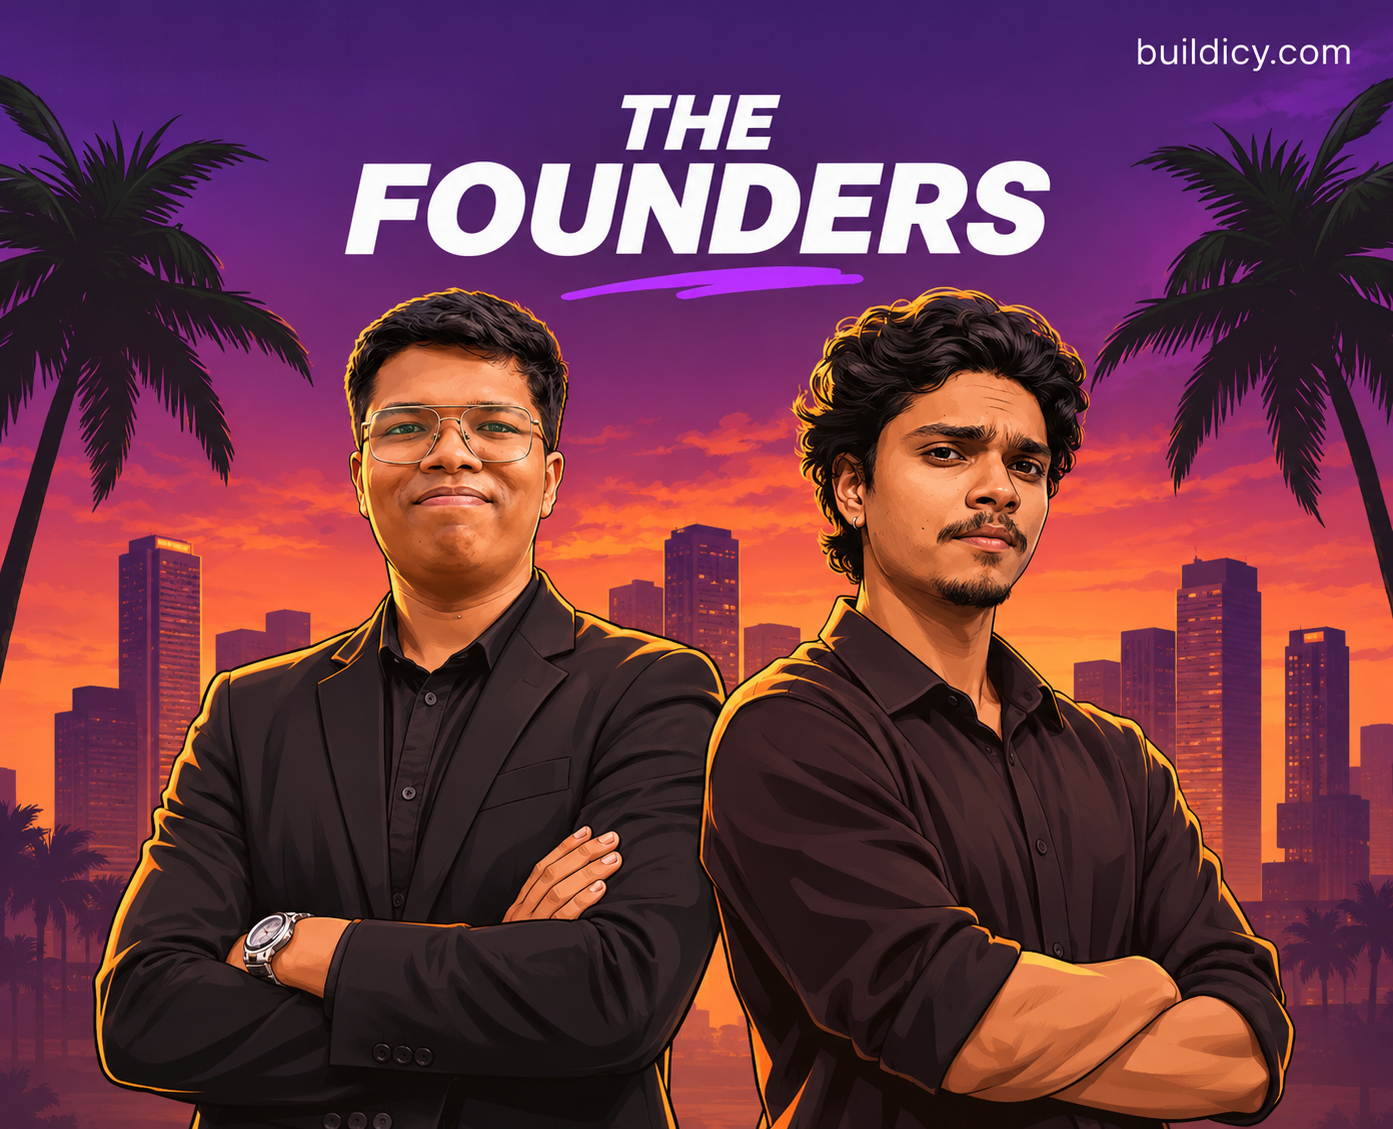
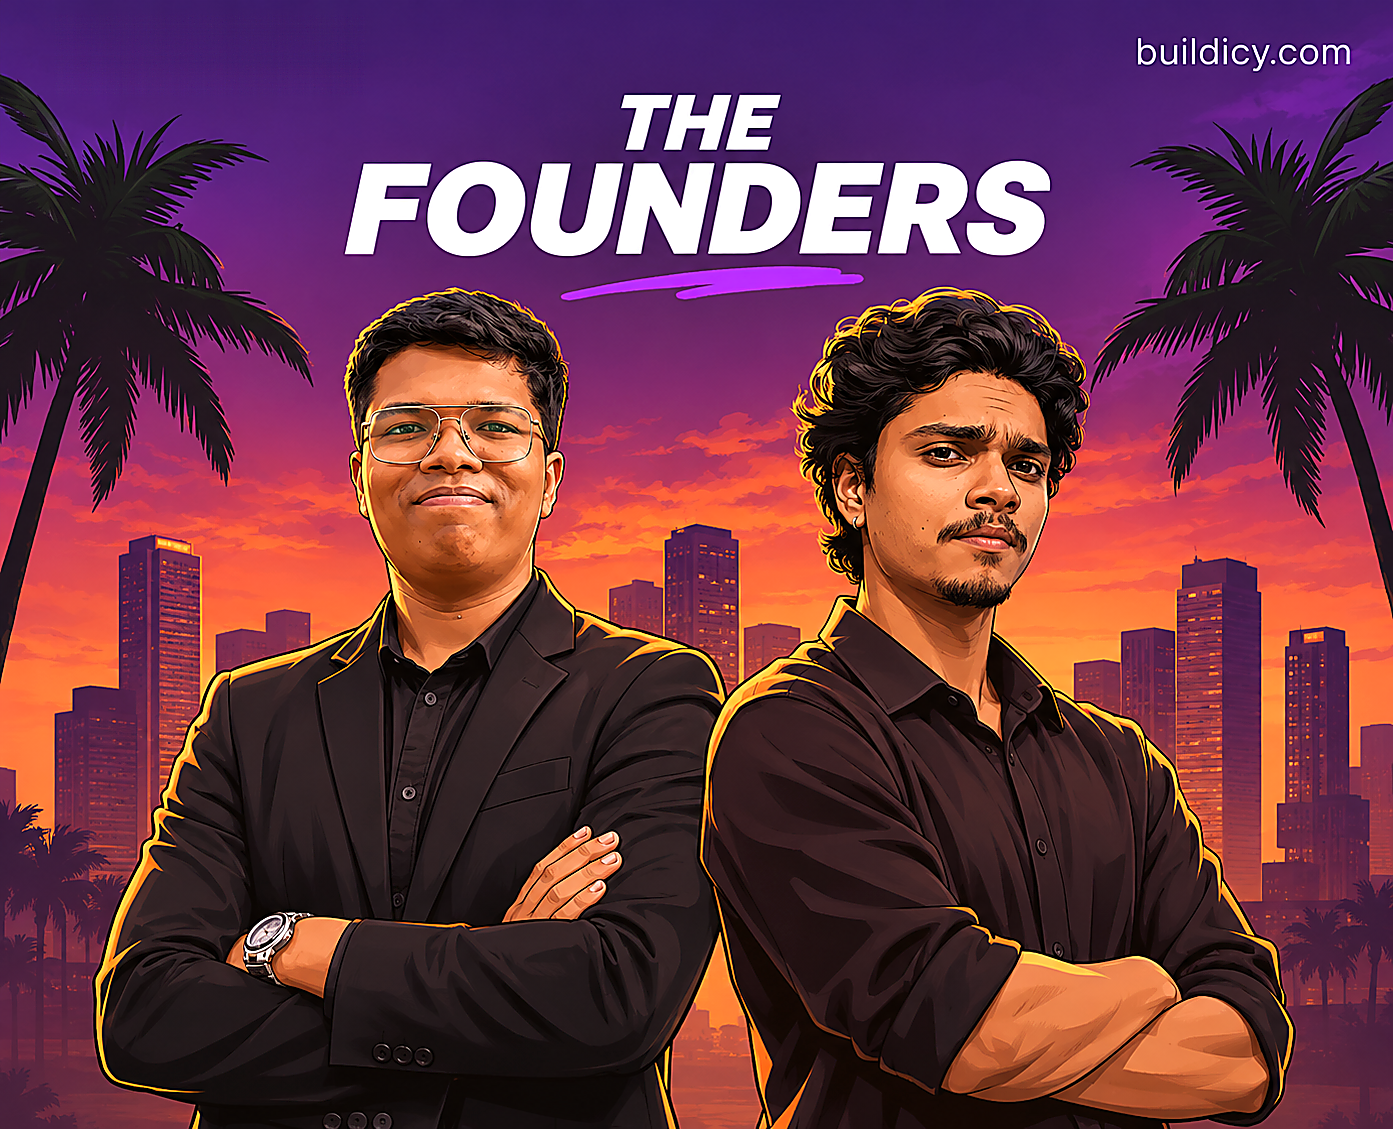
fix: mobile menu drawer z-index bump to z-60

diff --git a/src/components/FoundersPage.tsx b/src/components/FoundersPage.tsx
@@ -72,14 +72,14 @@ export function FoundersPage() {
                     onError={() => setPortraitLoaded(true)}
                     className={`w-full max-w-3xl max-h-[560px] object-contain rounded-3xl transition-all duration-[1200ms] ease-[cubic-bezier(0.22,1,0.36,1)] ${
                       portraitRevealed
-                        ? "scale-100 blur-0 saturate-100 opacity-100"
+                        ? "scale-100 opacity-100"
                         : "scale-105 blur-md saturate-75 opacity-0"
                     }`}
                     style={{
                       maskImage:
-                        "radial-gradient(ellipse 92% 88% at 50% 50%, black 72%, transparent 100%)",
+                        "radial-gradient(ellipse 98% 96% at 50% 50%, black 88%, transparent 100%)",
                       WebkitMaskImage:
-                        "radial-gradient(ellipse 92% 88% at 50% 50%, black 72%, transparent 100%)",
+                        "radial-gradient(ellipse 98% 96% at 50% 50%, black 88%, transparent 100%)",
                     }}
                   />
 
@@ -181,7 +181,7 @@ export function FoundersPage() {
               <div className="group rounded-2xl bg-white/95 border border-slate-200/70 p-7 shadow-[0_8px_30px_rgba(15,23,42,0.04)] hover:shadow-[0_14px_36px_rgba(124,58,237,0.08)] hover:border-purple-300/80 transition-all duration-300">
                 <div className="flex items-start justify-between">
                   <img
-                    src="/prajwal.png"
+                    src="/prajwal-avatar.png"
                     alt="Prajwal N — Buildicy CEO & Founder"
                     className="w-16 h-16 rounded-2xl object-cover object-top transition-transform duration-300 group-hover:scale-105"
                   />
@@ -224,7 +224,7 @@ export function FoundersPage() {
               <div className="group rounded-2xl bg-white/95 border border-slate-200/70 p-7 shadow-[0_8px_30px_rgba(15,23,42,0.04)] hover:shadow-[0_14px_36px_rgba(124,58,237,0.08)] hover:border-purple-300/80 transition-all duration-300">
                 <div className="flex items-start justify-between">
                   <img
-                    src="/mayur.png"
+                    src="/mayur-avatar.png"
                     alt="Mayur P — Buildicy CTO & Co-founder"
                     className="w-16 h-16 rounded-2xl object-cover object-top transition-transform duration-300 group-hover:scale-105"
                   />

diff --git a/src/components/Navbar.tsx b/src/components/Navbar.tsx
@@ -156,7 +156,7 @@ export function Navbar({ onOpenAudit, activeRoute }: NavbarProps) {
 
       {/* Mobile Drawer */}
       {mobileMenuOpen && (
-        <div className="lg:hidden fixed inset-x-0 top-20 bottom-0 bg-[#faf8f5]/98 backdrop-blur-2xl z-50 flex flex-col justify-between p-6 overflow-y-auto border-t border-slate-200/80 animate-in fade-in slide-in-from-top-2 duration-200">
+        <div className="lg:hidden fixed inset-x-0 top-20 bottom-0 bg-[#faf8f5]/98 backdrop-blur-2xl z-[60] flex flex-col justify-between p-6 overflow-y-auto border-t border-slate-200/80 animate-in fade-in slide-in-from-top-2 duration-200">
           <nav className="flex flex-col gap-2 text-base font-semibold text-slate-800 pt-1">
             <a
               href={`${linkPrefix}#problem`}
